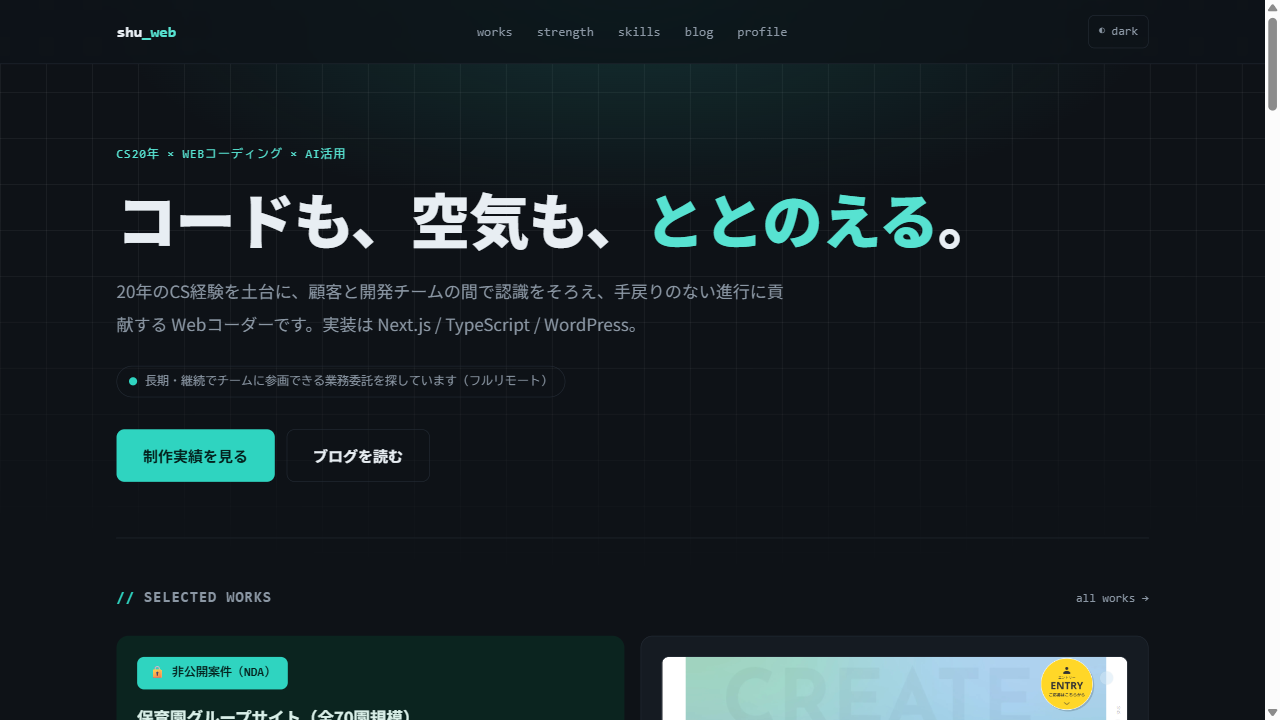
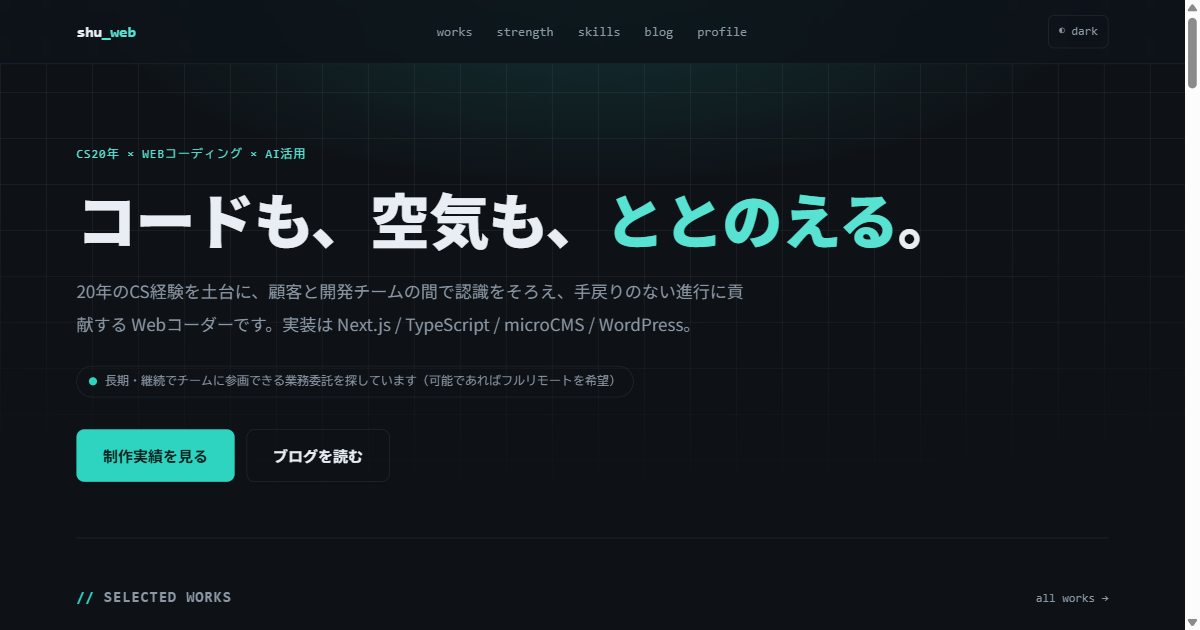
OG画像を推奨比率 1200×630 に差し替え
- 1280×720（16:9）は一部SNSで切れる可能性があったため、1.91:1 の 1200×630 に作り直し
- metadata の og:image 寸法も 1200×630 に更新

diff --git a/app/layout.tsx b/app/layout.tsx
@@ -20,7 +20,7 @@ export const metadata: Metadata = {
     siteName: SITE_NAME,
     title: SITE_NAME,
     description: SITE_DESC,
-    images: [{ url: '/og-image.png', width: 1280, height: 720, alt: SITE_NAME }],
+    images: [{ url: '/og-image.png', width: 1200, height: 630, alt: SITE_NAME }],
   },
   twitter: {
     card: 'summary_large_image',
